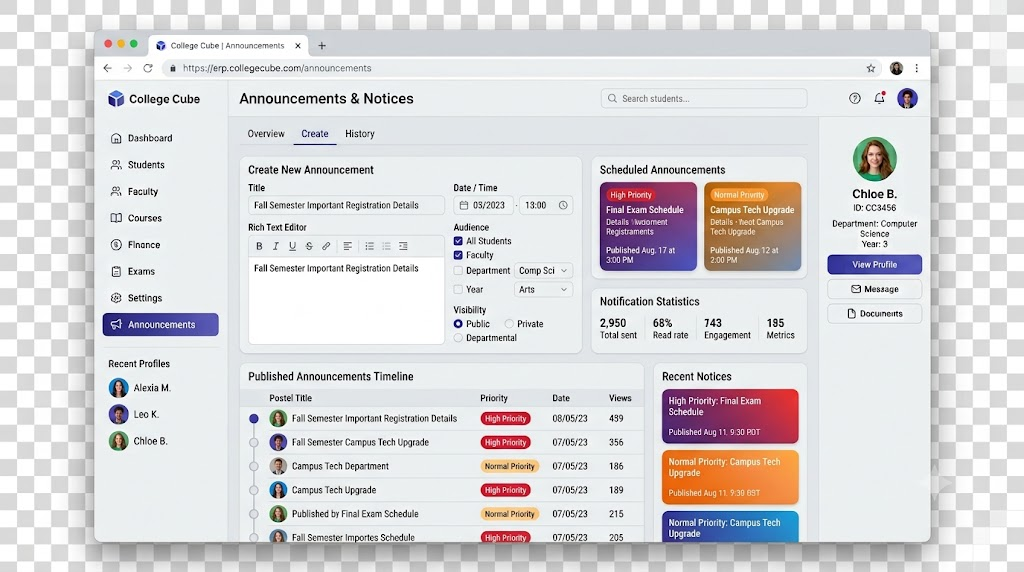
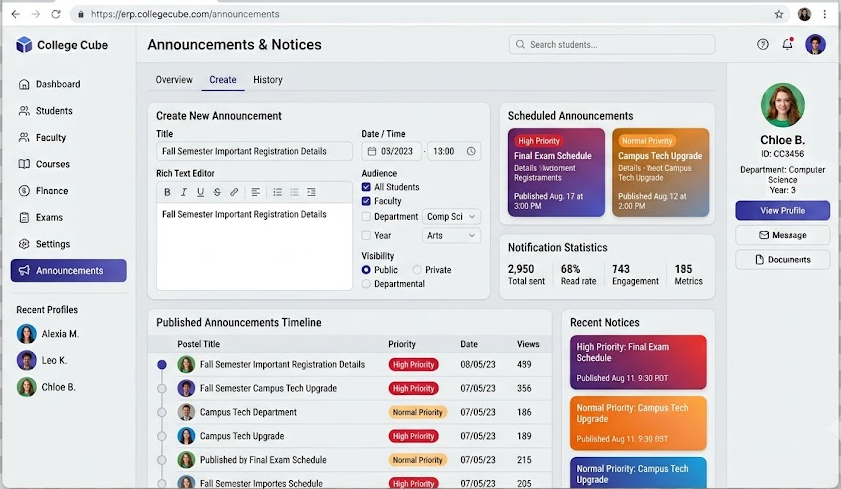
Updated launch demo bug

diff --git a/frontend/src/components/public/hero/HeroButtons.jsx b/frontend/src/components/public/hero/HeroButtons.jsx
@@ -5,9 +5,11 @@ import {
 import { useNavigate } from "react-router-dom";
 import { useState } from "react";
 import { demoLogin } from "../../../services/authService";
+import {useAuth} from "../../../context/AuthContext";
 
 const HeroButtons = () => {
   const navigate = useNavigate();
+  const { setUser } = useAuth();
   const [loading, setLoading] = useState(false);
   const [error, setError] = useState("");
 
@@ -29,6 +31,7 @@ const HeroButtons = () => {
         const response = await demoLogin("STUDENT");
   
         const { user } = response;
+        setUser(user);
   
   
         if (user.role === "ADMIN") {
